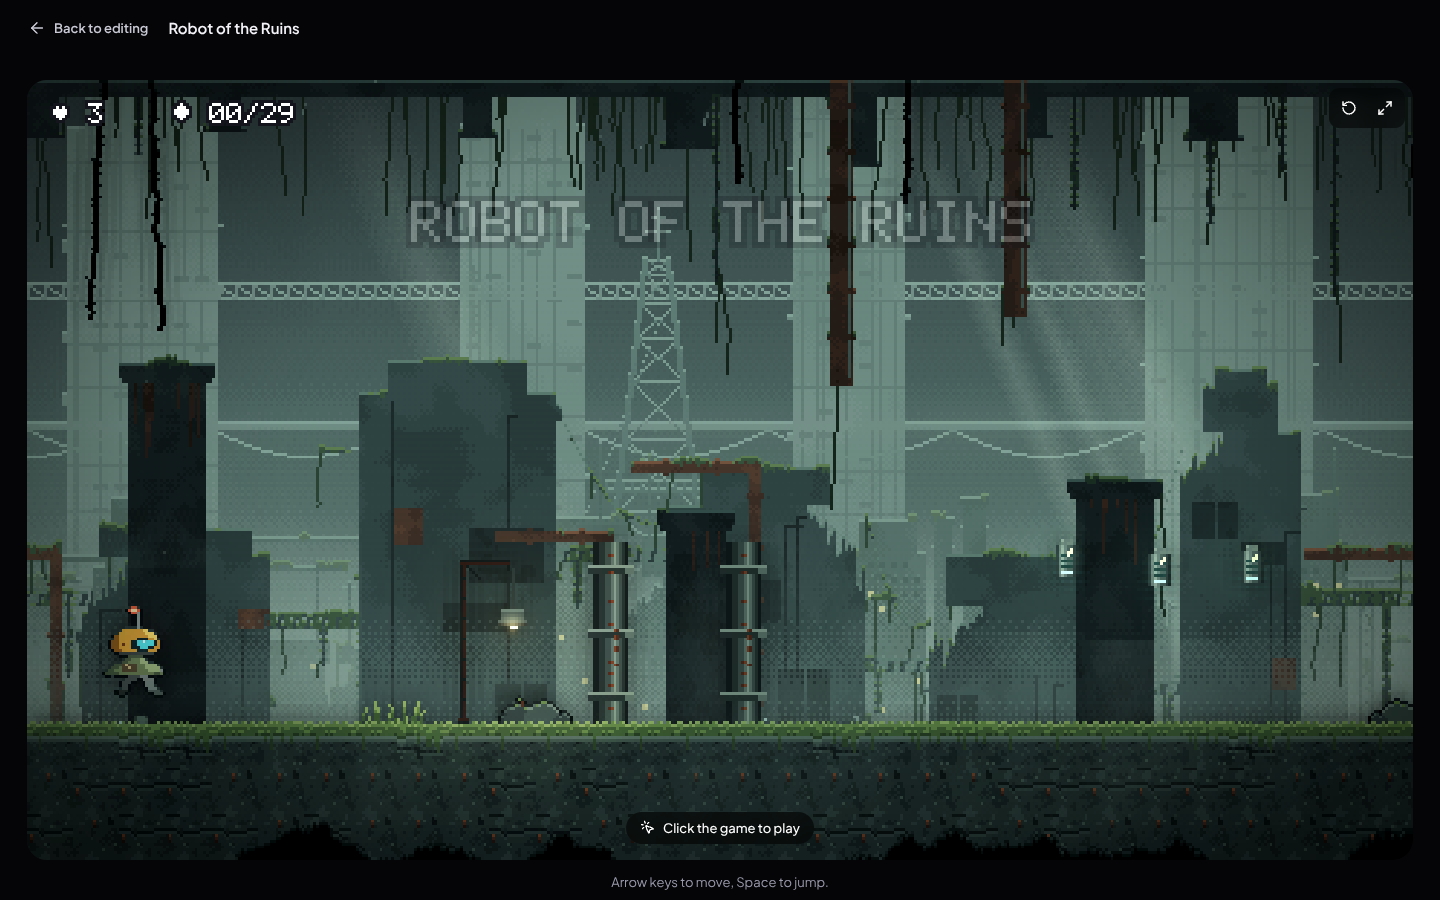
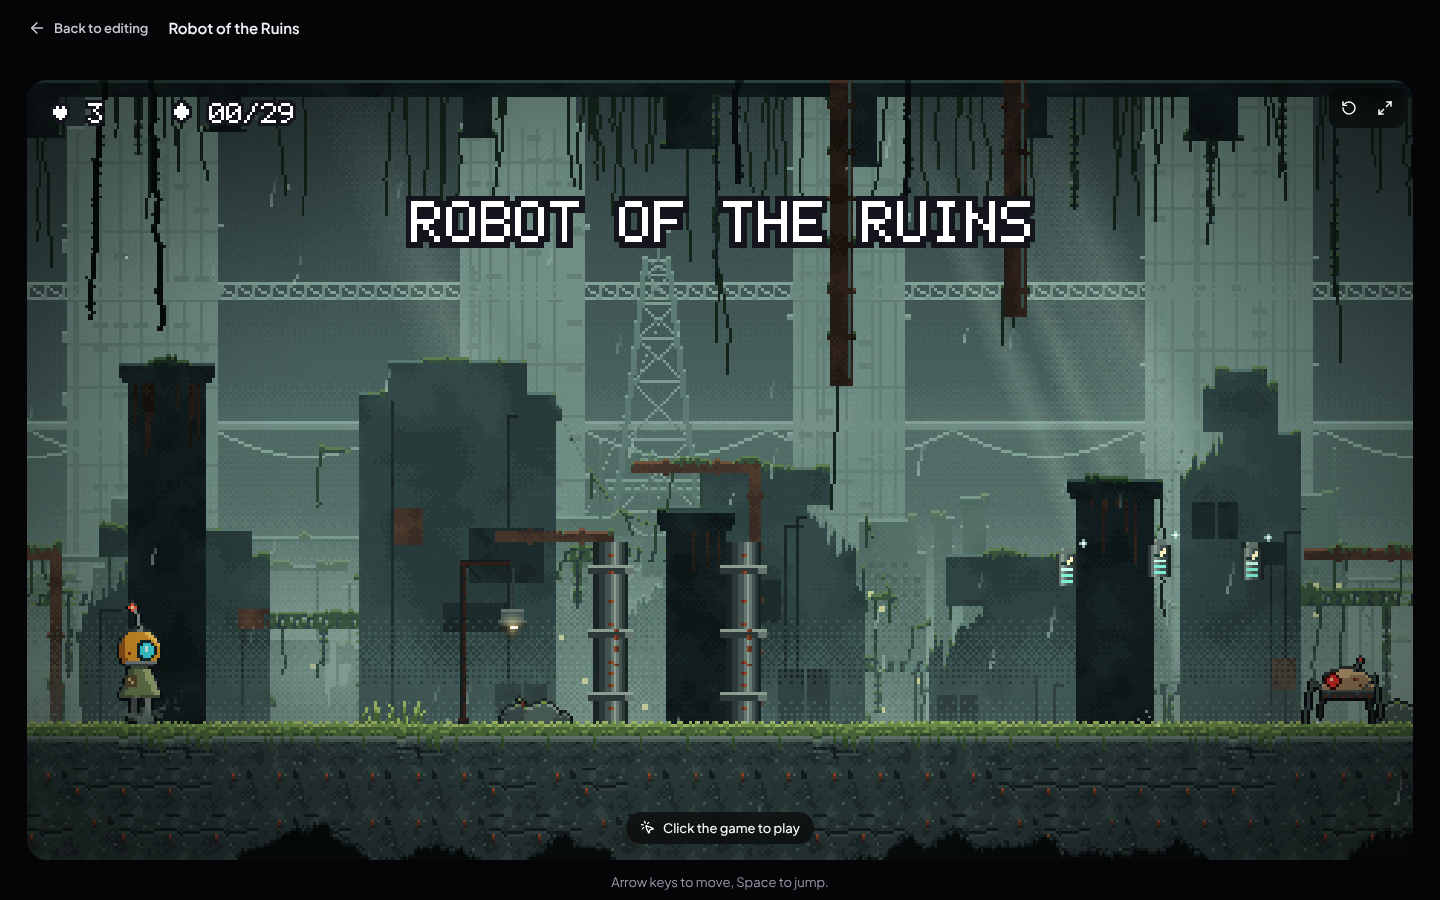
Team round 1: AI-first Degamed with game-quality art
- design: new design system (light/dark), landing, Create, Generating,
  Studio (play + chat + tune + look), share links, play page; the old
  editor moved behind Advanced; lazy routes and error screens
- art: four original pixel-art themes (Pip, Lumen, Fen, Ash) with
  parallax landmarks, autotiles, props, lights and environments
- engine: atmosphere renderer (lights, fog, bloom, rain, particles),
  platformer/runner/cave kits, game feel, phone controls, auto quality
- ai: @degamed/ai with free instant mode, BYOK providers, capped hosted
  Workers AI route, spec-first generation, honest fallbacks
- critic: quality bar, competitor scan, e2e harness, reviews

Claude-Session: https://claude.ai/code/session_01JMLULiGSNnJtbXeowHqjV4

diff --git a/apps/web/src/lib/share.ts b/apps/web/src/lib/share.ts
@@ -20,7 +20,10 @@ const unb64url = (s: string) => {
   return Uint8Array.from(bin, (c) => c.charCodeAt(0));
 };
 
-async function pipe(bytes: Uint8Array, stream: CompressionStream | DecompressionStream): Promise<Uint8Array> {
+async function pipe(
+  bytes: Uint8Array,
+  stream: CompressionStream | DecompressionStream,
+): Promise<Uint8Array> {
   const out = new Response(new Blob([bytes as BlobPart]).stream().pipeThrough(stream));
   return new Uint8Array(await out.arrayBuffer());
 }
@@ -45,11 +48,18 @@ export async function decodeSpec(code: string): Promise<GameSpec | null> {
   try {
     const version = code[0];
     let bytes: Uint8Array;
-    if (version === '1') bytes = await pipe(unb64url(code.slice(1)), new DecompressionStream('deflate-raw'));
+    if (version === '1')
+      bytes = await pipe(unb64url(code.slice(1)), new DecompressionStream('deflate-raw'));
     else if (version === '0') bytes = unb64url(code.slice(1));
     else return decodeLegacy(code);
     const t = JSON.parse(new TextDecoder().decode(bytes)) as unknown[];
-    if (!Array.isArray(t) || typeof t[0] !== 'string' || typeof t[1] !== 'string' || typeof t[2] !== 'string') return null;
+    if (
+      !Array.isArray(t) ||
+      typeof t[0] !== 'string' ||
+      typeof t[1] !== 'string' ||
+      typeof t[2] !== 'string'
+    )
+      return null;
     return {
       kit: t[0],
       theme: t[1],
@@ -64,20 +74,38 @@ export async function decodeSpec(code: string): Promise<GameSpec | null> {
 
 function cleanParams(p: unknown): Params | undefined {
   if (!p || typeof p !== 'object') return undefined;
-  return Object.fromEntries(Object.entries(p).filter(([, v]) => ['number', 'string', 'boolean'].includes(typeof v))) as Params;
+  return Object.fromEntries(
+    Object.entries(p).filter(([, v]) => ['number', 'string', 'boolean'].includes(typeof v)),
+  ) as Params;
 }
 
 /** Links made earlier this round: base64url of a JSON object. */
 function decodeLegacy(code: string): GameSpec | null {
   try {
-    const o = JSON.parse(new TextDecoder().decode(unb64url(code))) as { k?: unknown; t?: unknown; n?: unknown; s?: unknown; p?: unknown };
+    const o = JSON.parse(new TextDecoder().decode(unb64url(code))) as {
+      k?: unknown;
+      t?: unknown;
+      n?: unknown;
+      s?: unknown;
+      p?: unknown;
+    };
     if (typeof o.k !== 'string' || typeof o.t !== 'string' || typeof o.n !== 'string') return null;
-    return { kit: o.k, theme: o.t, title: o.n.slice(0, 80), seed: typeof o.s === 'number' ? o.s : undefined, params: cleanParams(o.p) };
+    return {
+      kit: o.k,
+      theme: o.t,
+      title: o.n.slice(0, 80),
+      seed: typeof o.s === 'number' ? o.s : undefined,
+      params: cleanParams(o.p),
+    };
   } catch {
     return null;
   }
 }
 
-export async function shareUrl(spec: GameSpec, defaults: Params = {}, origin = window.location.origin): Promise<string> {
+export async function shareUrl(
+  spec: GameSpec,
+  defaults: Params = {},
+  origin = window.location.origin,
+): Promise<string> {
   return `${origin}/p/${await encodeSpec(spec, defaults)}`;
 }

diff --git a/apps/web/src/main.tsx b/apps/web/src/main.tsx
@@ -17,7 +17,11 @@ const guard = (el: React.ReactNode) => <RequireAuth>{el}</RequireAuth>;
  * Everything but the landing, pricing and login pages loads on demand, so the first visit
  * stays light and a broken module in one area can't blank the whole site.
  */
-function page<T extends Record<string, unknown>>(load: () => Promise<T>, name: keyof T, fallback: ReactNode = <PageLoading />) {
+function page<T extends Record<string, unknown>>(
+  load: () => Promise<T>,
+  name: keyof T,
+  fallback: ReactNode = <PageLoading />,
+) {
   const Lazy = lazy(() => load().then((m) => ({ default: m[name] as ComponentType })));
   return function Page() {
     return (
@@ -30,7 +34,10 @@ function page<T extends Record<string, unknown>>(load: () => Promise<T>, name: k
 
 function PageLoading({ label }: { label?: string }) {
   return (
-    <div className="flex h-dvh items-center justify-center bg-bg text-body text-muted" aria-busy="true">
+    <div
+      className="flex h-dvh items-center justify-center bg-bg text-body text-muted"
+      aria-busy="true"
+    >
       {label ?? ''}
     </div>
   );
@@ -39,7 +46,11 @@ function PageLoading({ label }: { label?: string }) {
 const Create = page(() => import('./pages/Create'), 'Create');
 const Studio = page(() => import('./pages/Studio'), 'StudioPage');
 const Play = page(() => import('./pages/Play'), 'PlayPage');
-const Advanced = page(() => import('./pages/Editor'), 'Editor', <PageLoading label="Opening the advanced editor…" />);
+const Advanced = page(
+  () => import('./pages/Editor'),
+  'Editor',
+  <PageLoading label="Opening the advanced editor…" />,
+);
 const Dashboard = page(() => import('./pages/Dashboard'), 'Dashboard');
 const Settings = page(() => import('./pages/Settings'), 'Settings');
 const Login = page(() => import('./pages/Login'), 'Login');
@@ -64,15 +75,29 @@ const router = createBrowserRouter([
       { path: '/art', element: guard(<ArtLab />) },
       {
         path: '/dashboard/:section',
-        element: guard(<ComingSoon title="Coming soon" body="This section arrives in a later update." />),
+        element: guard(
+          <ComingSoon title="Coming soon" body="This section arrives in a later update." />,
+        ),
       },
       {
         path: '/explore',
-        element: <ComingSoon shell="site" title="Explore" body="The community gallery opens once publishing is ready." />,
+        element: (
+          <ComingSoon
+            shell="site"
+            title="Explore"
+            body="The community gallery opens once publishing is ready."
+          />
+        ),
       },
       {
         path: '/market',
-        element: <ComingSoon shell="site" title="Marketplace" body="Templates, art packs and music packs are coming." />,
+        element: (
+          <ComingSoon
+            shell="site"
+            title="Marketplace"
+            body="Templates, art packs and music packs are coming."
+          />
+        ),
       },
       { path: '*', element: <NotFound /> },
     ],

diff --git a/apps/web/src/pages/Pricing.tsx b/apps/web/src/pages/Pricing.tsx
@@ -3,7 +3,14 @@ import type { ReactNode } from 'react';
 import { SiteFooter, SiteHeader } from '../components/SiteHeader';
 import { ButtonLink, Card, cx } from '../ui';
 
-const PLANS: { icon: ReactNode; name: string; price: string; blurb: string; points: string[]; featured?: boolean }[] = [
+const PLANS: {
+  icon: ReactNode;
+  name: string;
+  price: string;
+  blurb: string;
+  points: string[];
+  featured?: boolean;
+}[] = [
   {
     icon: <Zap size={18} />,
     name: 'Instant mode',
@@ -39,13 +46,22 @@ export function Pricing() {
           Free while we’re in beta
         </h1>
         <p className="mt-4 max-w-[560px] text-center text-body-lg text-balance text-muted">
-          Make, play and share as many games as you like. If we ever add paid extras, we’ll tell you well before anything changes.
+          Make, play and share as many games as you like. If we ever add paid extras, we’ll tell you
+          well before anything changes.
         </p>
         <div className="mt-14 grid w-full gap-5 md:grid-cols-3">
           {PLANS.map((p) => (
-            <Card key={p.name} className={cx('relative flex flex-col gap-5 p-6', p.featured && 'border-brand shadow-[0_0_0_1px_var(--c-brand)]')}>
+            <Card
+              key={p.name}
+              className={cx(
+                'relative flex flex-col gap-5 p-6',
+                p.featured && 'border-brand shadow-[0_0_0_1px_var(--c-brand)]',
+              )}
+            >
               <div className="flex items-center gap-3">
-                <span className="flex size-10 items-center justify-center rounded-md bg-brand-tint text-brand-ink">{p.icon}</span>
+                <span className="flex size-10 items-center justify-center rounded-md bg-brand-tint text-brand-ink">
+                  {p.icon}
+                </span>
                 <div className="flex flex-col">
                   <h2 className="text-subtitle font-semibold">{p.name}</h2>
                   <span className="text-body-sm font-semibold text-muted">{p.price}</span>

diff --git a/apps/web/src/components/ThemeThumb.tsx b/apps/web/src/components/ThemeThumb.tsx
@@ -4,7 +4,15 @@ import { cx } from '../ui';
  * A theme's pre-rendered key art (apps/web/public/art/themes). Doesn't load any art code,
  * so it's safe on light pages like the landing.
  */
-export function ThemeThumb({ id, className, eager }: { id: string; className?: string; eager?: boolean }) {
+export function ThemeThumb({
+  id,
+  className,
+  eager,
+}: {
+  id: string;
+  className?: string;
+  eager?: boolean;
+}) {
   return (
     <img
       src={`/art/themes/${id}.png`}
@@ -21,7 +29,19 @@ export function ThemeThumb({ id, className, eager }: { id: string; className?: s
 /** Marketing copy for the art styles shown on the landing page (ids match the art themes). */
 export const SHOWCASE = [
   { id: 'rain-ruins', name: 'Rain Ruins', blurb: 'Moody, rain-soaked ruins in teal fog.' },
-  { id: 'hollow-caverns', name: 'Hollow Caverns', blurb: 'Glowing fungus and drifting spores in the dark.' },
-  { id: 'sunlit-meadow', name: 'Sunlit Meadow', blurb: 'Puffy clouds, snowy peaks and summer flowers.' },
-  { id: 'ember-forge', name: 'Ember Forge', blurb: 'Molten light and giant gears in a castle forge.' },
+  {
+    id: 'hollow-caverns',
+    name: 'Hollow Caverns',
+    blurb: 'Glowing fungus and drifting spores in the dark.',
+  },
+  {
+    id: 'sunlit-meadow',
+    name: 'Sunlit Meadow',
+    blurb: 'Puffy clouds, snowy peaks and summer flowers.',
+  },
+  {
+    id: 'ember-forge',
+    name: 'Ember Forge',
+    blurb: 'Molten light and giant gears in a castle forge.',
+  },
 ];

diff --git a/apps/web/src/pages/Placeholder.tsx b/apps/web/src/pages/Placeholder.tsx
@@ -2,7 +2,15 @@ import { AppShell } from '../components/AppShell';
 import { SiteFooter, SiteHeader } from '../components/SiteHeader';
 import { ButtonLink } from '../ui';
 
-export function ComingSoon({ title, body, shell = 'app' }: { title: string; body: string; shell?: 'app' | 'site' }) {
+export function ComingSoon({
+  title,
+  body,
+  shell = 'app',
+}: {
+  title: string;
+  body: string;
+  shell?: 'app' | 'site';
+}) {
   const content = (
     <div className="flex flex-col gap-3">
       <h1 className="font-display text-title-lg font-bold tracking-[-0.02em]">{title}</h1>
@@ -23,8 +31,12 @@ export function NotFound() {
   return (
     <div className="flex min-h-dvh flex-col items-center justify-center gap-4 px-6 text-center">
       <span className="font-mono text-body-sm font-semibold text-brand-ink">404</span>
-      <h1 className="font-display text-title-lg font-bold tracking-[-0.02em]">This level doesn’t exist</h1>
-      <p className="max-w-sm text-body text-muted">The link may be old or mistyped. Why not make a game instead?</p>
+      <h1 className="font-display text-title-lg font-bold tracking-[-0.02em]">
+        This level doesn’t exist
+      </h1>
+      <p className="max-w-sm text-body text-muted">
+        The link may be old or mistyped. Why not make a game instead?
+      </p>
       <div className="mt-2 flex flex-wrap justify-center gap-2">
         <ButtonLink to="/" variant="secondary">
           Home

diff --git a/apps/web/src/lib/game/game.test.ts b/apps/web/src/lib/game/game.test.ts
@@ -35,7 +35,13 @@ describe('game adapter (engine kits + art themes)', () => {
 });
 
 describe('share links', () => {
-  const spec = { kit: 'platformer', theme: 'rain-ruins', title: 'Robôt’s Quest', seed: 42, params: { speed: 200, enemies: false, difficulty: 'tricky' } };
+  const spec = {
+    kit: 'platformer',
+    theme: 'rain-ruins',
+    title: 'Robôt’s Quest',
+    seed: 42,
+    params: { speed: 200, enemies: false, difficulty: 'tricky' },
+  };
 
   it('round-trips a spec, including non-ASCII titles', async () => {
     const code = await encodeSpec(spec);
@@ -50,7 +56,9 @@ describe('share links', () => {
   });
 
   it('still opens links made in the older format', async () => {
-    const legacy = btoa(JSON.stringify({ k: 'platformer', t: 'rain-ruins', n: 'Old', s: 1 })).replace(/=+$/, '');
+    const legacy = btoa(
+      JSON.stringify({ k: 'platformer', t: 'rain-ruins', n: 'Old', s: 1 }),
+    ).replace(/=+$/, '');
     expect(await decodeSpec(legacy)).toMatchObject({ kit: 'platformer', title: 'Old' });
   });
 

diff --git a/apps/web/src/studio/ShareDialog.tsx b/apps/web/src/studio/ShareDialog.tsx
@@ -27,7 +27,10 @@ export function ShareDialog({
       live = false;
     };
   }, [open, spec, title]);
-  const canNativeShare = typeof navigator !== 'undefined' && 'share' in navigator && window.matchMedia('(pointer: coarse)').matches;
+  const canNativeShare =
+    typeof navigator !== 'undefined' &&
+    'share' in navigator &&
+    window.matchMedia('(pointer: coarse)').matches;
   const nativeShare = async () => {
     if (!url) return;
     try {
@@ -71,7 +74,11 @@ export function ShareDialog({
               <ExternalLink size={16} aria-hidden="true" /> Open
             </a>
             {canNativeShare && (
-              <Button variant="secondary" icon={<Share2 size={16} />} onClick={() => void nativeShare()}>
+              <Button
+                variant="secondary"
+                icon={<Share2 size={16} />}
+                onClick={() => void nativeShare()}
+              >
                 Share…
               </Button>
             )}

diff --git a/apps/web/src/pages/Play.tsx b/apps/web/src/pages/Play.tsx
@@ -128,10 +128,17 @@ export function PlayPage() {
             </p>
             {/* On phones: one clear way to a big, landscape game. */}
             <div className="flex flex-col items-center gap-3 px-4 pt-6 sm:hidden">
-              <Button size="lg" block icon={<Maximize2 size={18} />} onClick={() => stage.current?.fullscreen()}>
+              <Button
+                size="lg"
+                block
+                icon={<Maximize2 size={18} />}
+                onClick={() => stage.current?.fullscreen()}
+              >
                 Play full screen
               </Button>
-              <p className="text-center text-body-sm text-muted">Turn your phone sideways. Use the on-screen buttons to move and jump.</p>
+              <p className="text-center text-body-sm text-muted">
+                Turn your phone sideways. Use the on-screen buttons to move and jump.
+              </p>
             </div>
           </div>
         ) : (

diff --git a/apps/web/src/studio/ChatPanel.tsx b/apps/web/src/studio/ChatPanel.tsx
@@ -44,7 +44,15 @@ function saveChat(gameId: string, messages: Message[]) {
 }
 
 /** Change the game by talking to it. */
-export function ChatPanel({ studio, intro, fresh = false }: { studio: Studio; intro: string; fresh?: boolean }) {
+export function ChatPanel({
+  studio,
+  intro,
+  fresh = false,
+}: {
+  studio: Studio;
+  intro: string;
+  fresh?: boolean;
+}) {
   const [messages, setMessages] = useState<Message[]>(() => {
     const saved = loadChat(studio.id);
     const greeting: Message = { id: ++nextId, role: 'assistant', text: intro, status: 'done' };

diff --git a/apps/web/src/components/SiteHeader.tsx b/apps/web/src/components/SiteHeader.tsx
@@ -11,7 +11,13 @@ const navClass = ({ isActive }: { isActive: boolean }) =>
 
 /** Marketing-site header: logo, a couple of links, appearance and one primary action. */
 /** `quiet`: the page has its own primary action (the landing's prompt), so the header button steps back. */
-export function SiteHeader({ overlay = false, quiet = false }: { overlay?: boolean; quiet?: boolean }) {
+export function SiteHeader({
+  overlay = false,
+  quiet = false,
+}: {
+  overlay?: boolean;
+  quiet?: boolean;
+}) {
   const { session } = useAuth();
   return (
     <header

diff --git a/apps/web/src/studio/TunePanel.tsx b/apps/web/src/studio/TunePanel.tsx
@@ -69,7 +69,9 @@ export function TunePanel({
                 key={p.key}
                 param={p}
                 value={values[p.key] ?? p.default}
-                onChange={(v) => studio.setParam(p.key, v, `Change ${plainLabel(p.label).toLowerCase()}`)}
+                onChange={(v) =>
+                  studio.setParam(p.key, v, `Change ${plainLabel(p.label).toLowerCase()}`)
+                }
               />
             ))}
           </div>

diff --git a/apps/web/src/lib/auth.tsx b/apps/web/src/lib/auth.tsx
@@ -43,7 +43,9 @@ export function AuthProvider({ children }: { children: ReactNode }) {
     await supabase?.auth.signOut();
   };
 
-  return <AuthContext.Provider value={{ session, loading, signOut }}>{children}</AuthContext.Provider>;
+  return (
+    <AuthContext.Provider value={{ session, loading, signOut }}>{children}</AuthContext.Provider>
+  );
 }
 
 export function useAuth() {
